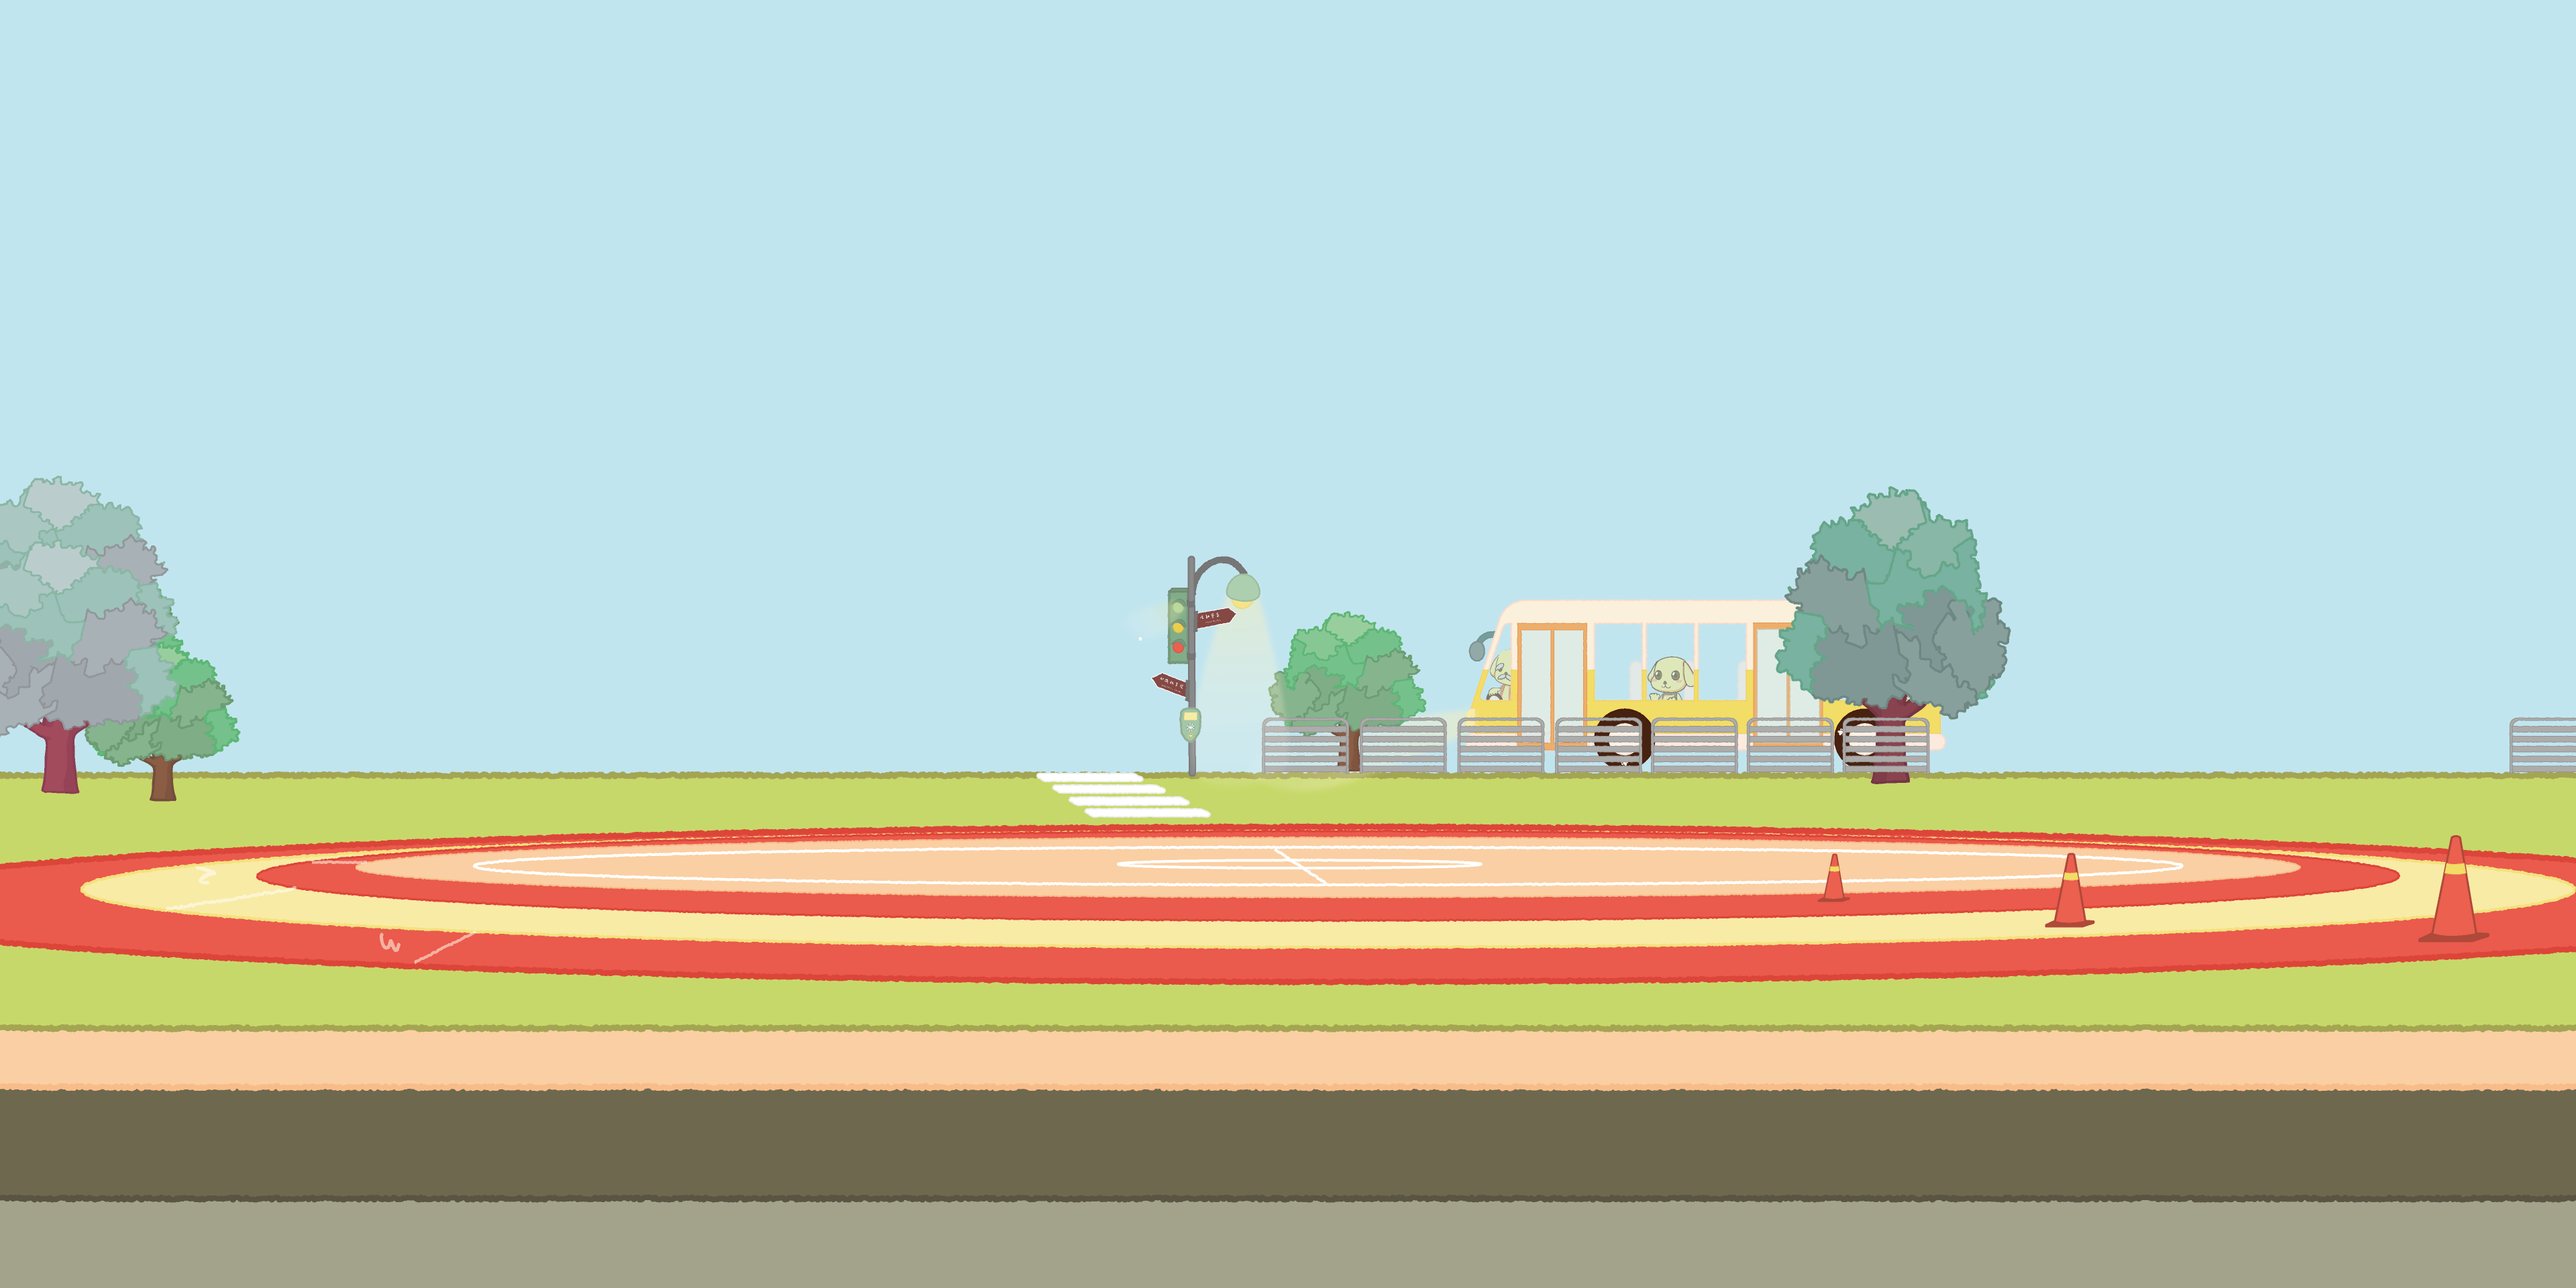
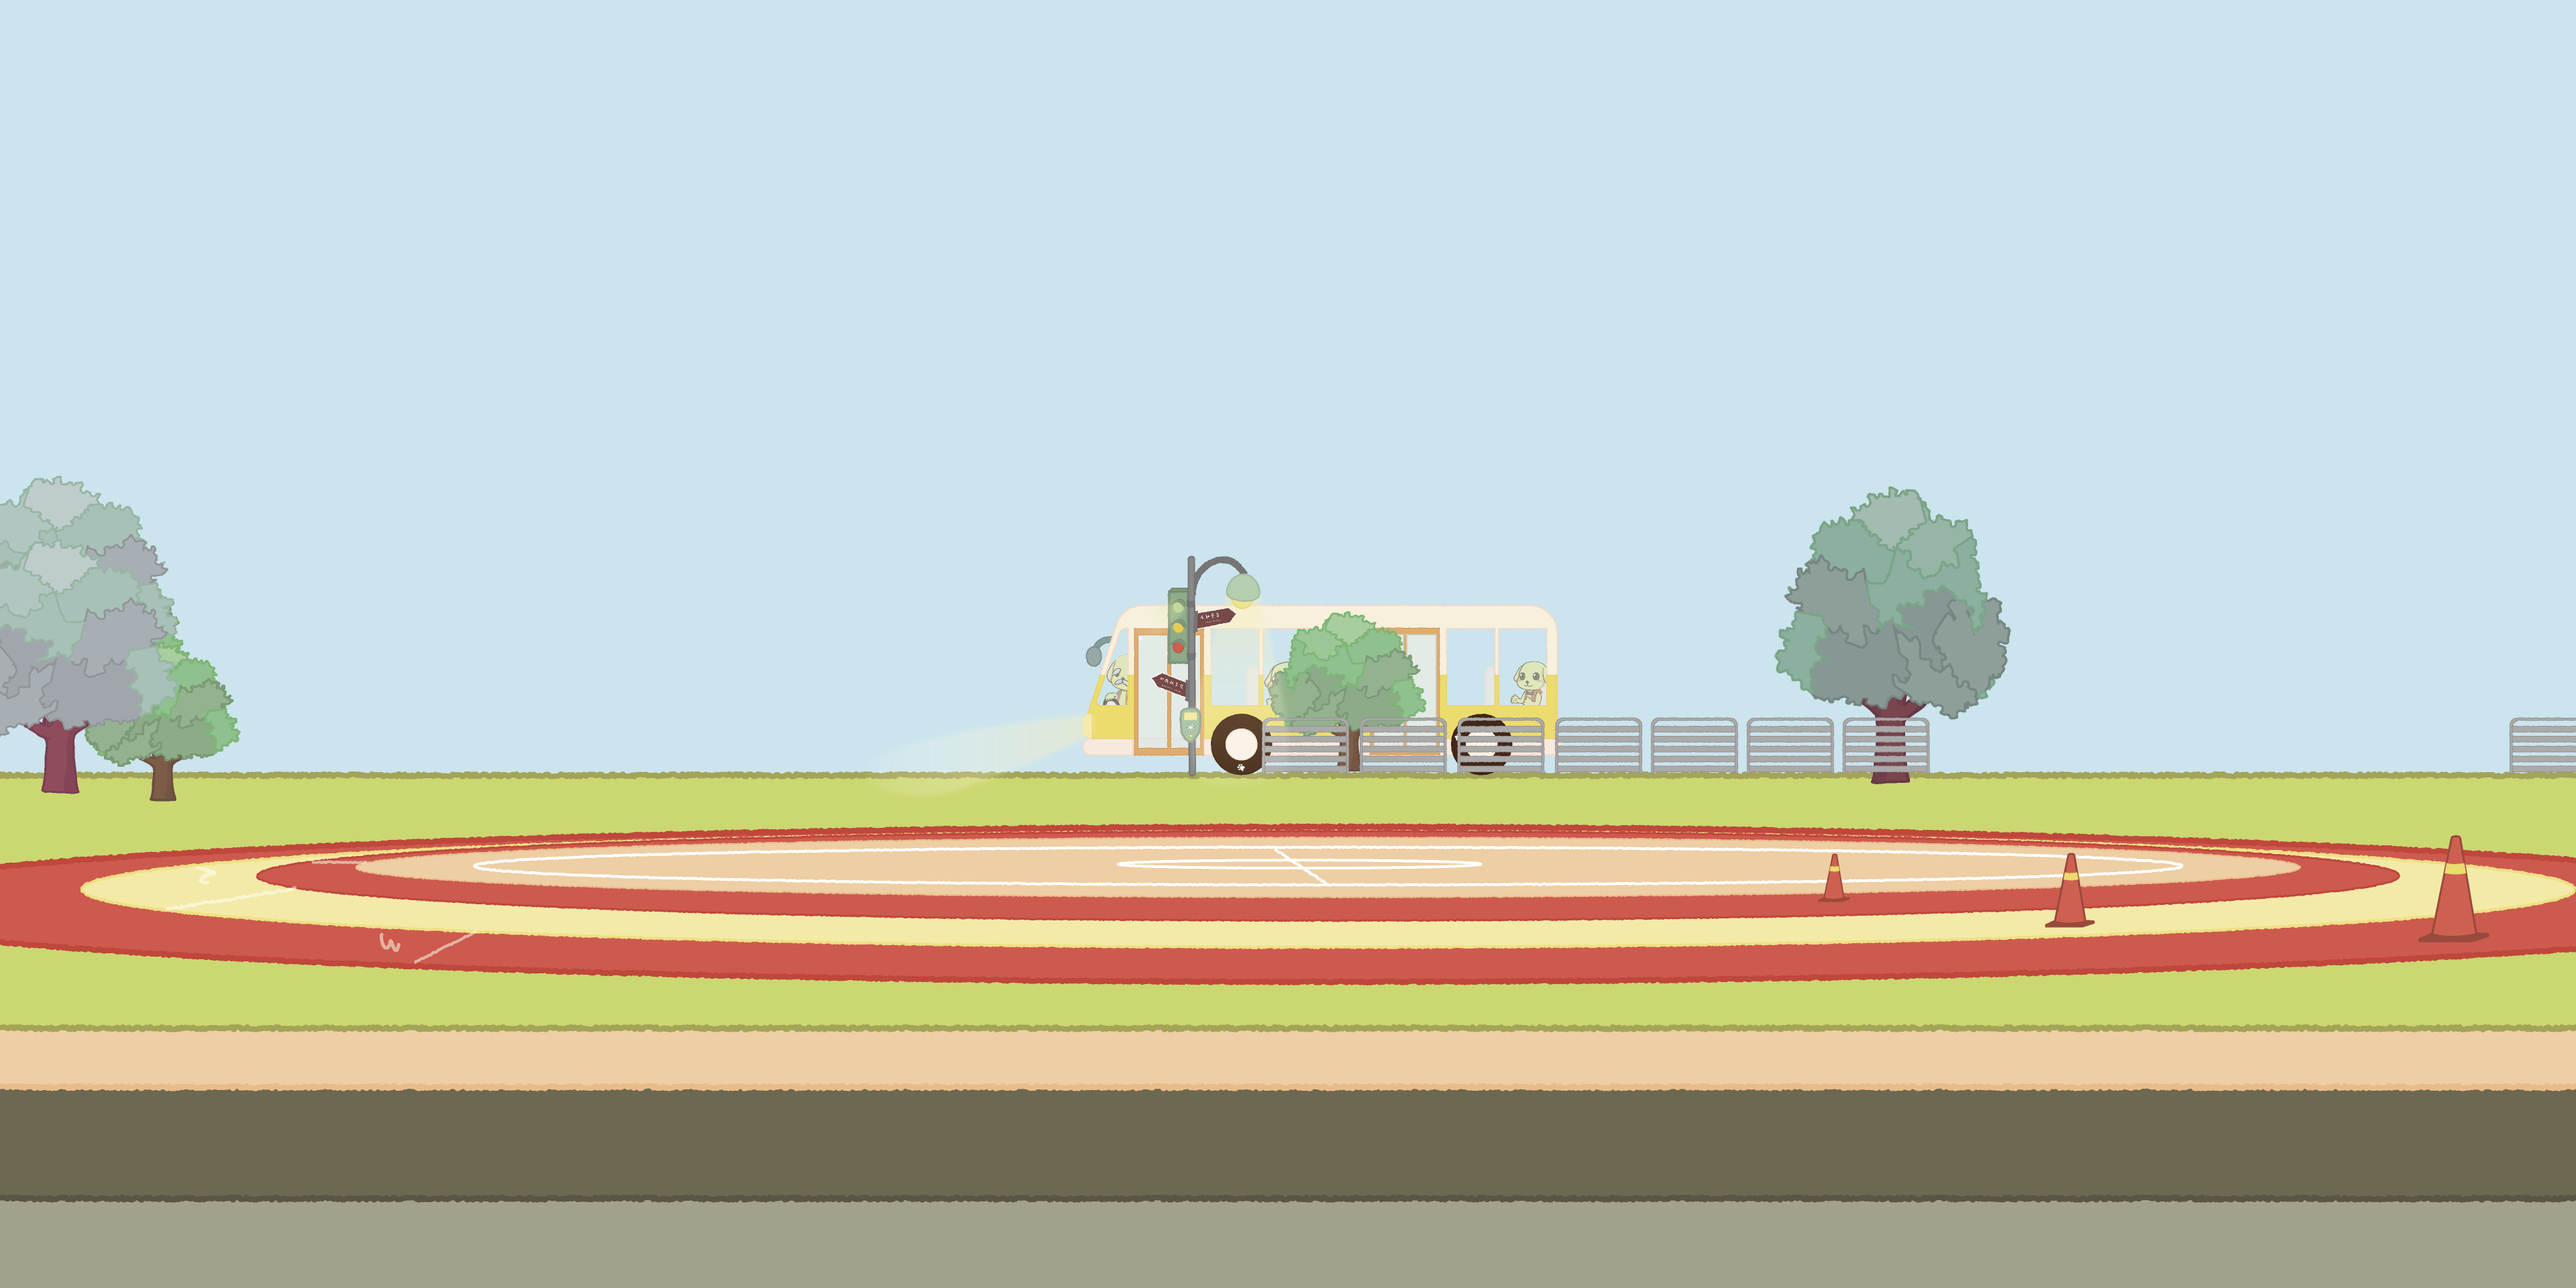
update

Changed region(s): [[0.0, 0.4688, 1.0, 0.7812], [0.0625, 0.5, 0.0938, 0.5938]]

diff --git a/script/YouthObject.js b/script/YouthObject.js
@@ -1,7 +1,7 @@
 import * as PIXI from 'pixi.js';
 import gsap from "gsap";
 import { PixiPlugin } from "gsap/PixiPlugin";
-import { linkObject, PageObject, Background, Player, Video, OtherObject } from './GameObject.js';
+import { linkObject, PageObject, Background, Player, Video, OtherObject, Door } from './GameObject.js';
 import YouthAction_Bus from './YouthAction_bus.js';
 import YouthAction_Instruction from './YouthAction_Instruction.js';
 import YouthAction_Traffic from './YouthAction_Traffic.js';
@@ -17,9 +17,11 @@ export default class YouthObject extends PageObject {
         this.name = "YouthObject";
         this.children = {
             "background": new Background(this.manager, this, "image/building/youth/bg.png"),
+            "door": new Door(this.manager, this, -0.064, 0.117, "image/building/youth/door.png"),
             "video": new YouthVideo(this.manager, this),
             "graduate": new Graduate(this.manager, this),
             "grass": new OtherObject(this.manager, "grass", 0.028, 0.054, "image/building/youth/grass.png"),
+            "mirror": new Mirror(this.manager, this),
             "player": new Player(this.manager, this)
         };
     }
@@ -203,9 +205,43 @@ class Graduate extends linkObject {
     constructor(manager, page) {
         super(manager, page);
         this.name = "Graduate";
-        this.x = -0.241;
-        this.y = -0.077;
+        this.x = -0.294;
+        this.y = -0.118;
         this.url = "image/building/youth/graduate.png";
+        this.zoomIn = 1.3;
+    }
+    resize() {
+        this.w = this.manager.w;
+        this.h = this.manager.h;
+        this.container.removeChildren();
+        this.draw();
+        if (this.isClick) {
+            this.sprite.interactive = false;
+            let tl = gsap.timeline();
+            tl.to(this.page.container.scale, { duration: 0.5, x: this.zoomIn, y: this.zoomIn });
+            tl.to(this.page.container, { duration: 0.5, x: (-this._x + 35) * this.zoomIn, y: (-this._y - 100) * this.zoomIn }, 0);
+        }
+        this.container.scale.set(this.manager.canvasScale);
+    }
+    clickEvent() {
+        this.blink.outerStrength = 0;
+        this.sprite.interactive = false;
+        let tl = gsap.timeline();
+        tl.to(this.page.container.scale, { duration: 0.5, x: this.zoomIn, y: this.zoomIn });
+        tl.to(this.page.container, { duration: 0.5, x: (-this._x + 35) * this.zoomIn, y: (-this._y - 100) * this.zoomIn }, 0);
+        this.page.children.player.move(this._x, this.sprite.width);
+        this.page.isZoomIn = true;
+        this.isClick = true;
+        this.drawCancel();
+        this.cancel.visible = true;
+    }
+}
+class Mirror extends linkObject {
+    constructor(manager, page) {
+        super(manager, page);
+        this.x = 0.108;
+        this.y = -0.026;
+        this.url = "image/building/youth/mirror.png";
         this.zoomIn = 1.5;
     }
 }

diff --git a/script/Manager.js b/script/Manager.js
@@ -217,11 +217,18 @@ const loadList = {
     ],
     "youth": [
         "image/building/youth/bg.png",
+        "image/building/youth/door.png",
         "image/building/youth/video.png",
+        "image/building/youth/mirror.png",
+        "image/building/youth/graduate.png",
         "image/video/youth/sprites.json",
     ],
     "elderly": [
         "image/building/elderly/bg.png",
+        "image/building/elderly/door.png",
+        "image/building/elderly/book.png",
+        "image/building/elderly/map.png",
+        "image/building/elderly/tv.png",
         "image/building/elderly/video.png",
         "image/video/elderly/elderly_video_sprites.json",
     ],

diff --git a/script/GameObject.js b/script/GameObject.js
@@ -163,7 +163,12 @@ export class linkObject extends GameObject {
         this.h = this.manager.h;
         this.container.removeChildren();
         this.draw();
-        if (this.isClick) { this.sprite.interactive = false; }
+        if (this.isClick) {
+            this.sprite.interactive = false;
+            let tl = gsap.timeline();
+            tl.to(this.page.container.scale, { duration: 0.5, x: this.zoomIn, y: this.zoomIn });
+            tl.to(this.page.container, { duration: 0.5, x: -this._x * this.zoomIn, y: -this._y * this.zoomIn }, 0);
+        }
         this.container.scale.set(this.manager.canvasScale);
     }
     overEvent(e) {
